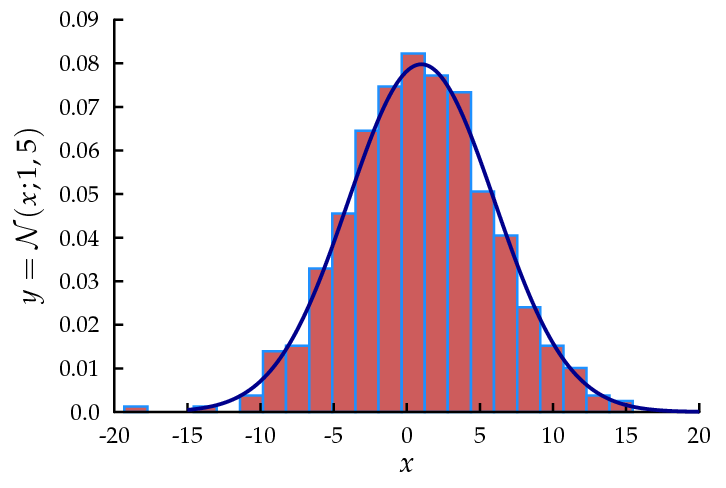
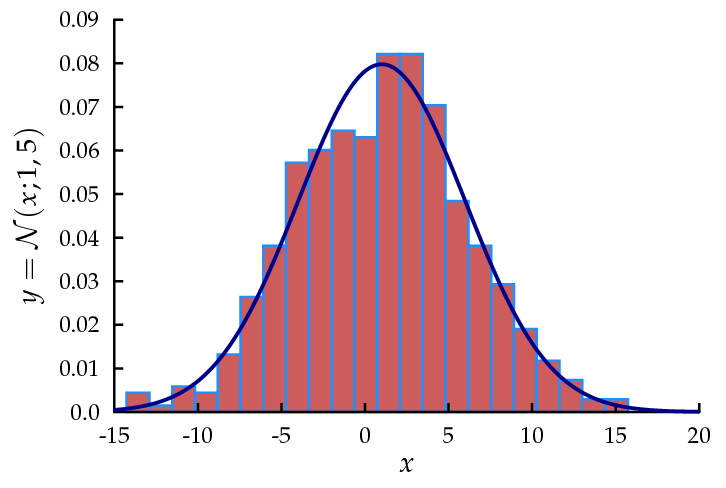
gen ex check

Changed region(s): [[0.1515, 0.0922, 0.9091, 0.9221], [0.3333, 0.8607, 0.3939, 0.9221]]

diff --git a/s2gap.py b/s2gap.py
@@ -23,7 +23,7 @@ printdict   = lambda d: 		 ''.join([' %s %s'%v if v[1] else '' for v in d.items(
 # -----------------------------------------------------------------------------
 def parse_append(curfig,line,**xargs):
 	scriptname = s2gf.strip_d(s2gf.getarg1(line),'\"')
-	print 'Appending script <', scriptname, '>...'
+	print '\nAppending script <', scriptname, '>...'
 	with open(scriptname,'r') as script:
 		# prepend the script to stack of lines
 		script_stack = script.readlines()+xargs['scriptstack']
@@ -160,6 +160,7 @@ def parse_set(curfig,line,**xargs):
 				curfig.axopt+='%saxis log\n'%arg[0]
 			elif match(r'[xy]lim$',arg):
 				al  = s2gf.safe_pop(args,arg)
+				al_ = s2gf.array_x(al)
  				curfig.axopt+='%saxis min %s max %s\n'%(arg[0],al_[0],al_[1])
  			elif match(r'fontsize$',arg):
  				fs  = s2gf.safe_pop(args,arg)
@@ -380,7 +381,7 @@ def parse_histogram(curfig,line,**xargs):
 		elif opt.isdigit():
 			nbins = opt
 		elif opt == 'nbins':
-			nbins = s2gf.getnextargNL(nbins)
+			nbins = s2gf.getnextargNL(optsraw)
 		else:
 			s2gc.S2GSyntaxError(line,'<::unknown option in hist::>')
 	#

diff --git a/s2gd.py b/s2gd.py
@@ -54,7 +54,7 @@ script_dict_JL = {
 	'tifrow' 	: 'ifelse(size({0},1)>1,{0},{0}\')',
 	'autobins'  : '({0}<10)*{0}+(10<={0}<30)*10+(30<={0})*int(round(sqrt({0})))',
 	'EOL'		: '',
-	'cbind' 	: lambda s: '[%s]'%(','.join(s)),
+	'cbind' 	: lambda s: '[%s]'%(' '.join(s)),
 	'rbind'		: lambda s: '[%s]'%(';'.join(s)),
 	'span' 		: '1:%s',
 	'exit' 		: 'exit()',

diff --git a/README.md b/README.md
@@ -29,7 +29,7 @@ running with `S2G` (\*) will generate the figure below:
 ![introtest.R](/examples/R/introtest_fig1_g.png)
 (\*:  `s2g introtest.R -png -tex`))
 
-**Note:** if this figure appears slightly pixellated, it is because it was rasterized into PNG so that it could be displayed on this page. To have it in vector quality: `s2g introtest.R -tex`
+**Note:** if this figure appears slightly pixellated, it is because it was rasterized into PNG so that it could be displayed on this page. To have it in vector quality: `s2g introtest.R -tex`.
 
 ### The workflow
 
@@ -72,7 +72,7 @@ Excellent instructions can be found on [their website](http://glx.sourceforge.ne
   2. from source with gcc (Apple LLVM 6.0) a small thing needs be done (patch found on [macports](https://trac.macports.org/attachment/ticket/41760/patch-hash-map.diff)):
     * comment line 54 of `PATH/src/gle/tokens/StringKeyHash.h`
     * uncomment line 57
-    * then run as usual: `make` (takes a bit of time) then `make install`.
+    * then run as usual: `make` (takes a few minutes) then `make install`.
 
 ### Installing S2G
 
@@ -92,7 +92,7 @@ It takes a few seconds to compile the figure since it must run `pdflatex` to gen
 s2g ex_basic.jl
 ```
 
-If you want a png output, use the option `-png` eg:
+If you want a png output, add the option `-png` eg:
 
 ```Bash
 s2g ex_basic.jl -tex -png
@@ -116,7 +116,7 @@ ylabel('$p(x)$')
 legend('$\propto\mathcal N(0,1)$','$\propto$ Laplace','Location','southeast')
 ```
 
-**Remark**: due to the similarity between Octave/Matlab and Julia syntax, the above example can be also be run with Julia, just name it `smalltest.jl` and let `s2g` do the rest.
+**Remark**: due to the similarity between Octave/Matlab and Julia syntax, the above example can actually also be run with Julia, just name it `smalltest.jl` and let `s2g` do the rest.
 
 in your terminal, in the same directory with `$PATHS2G` the path to the executable `s2g`,
 
